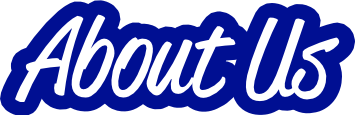
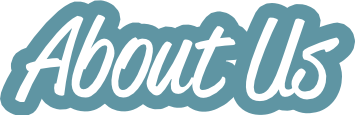
working on post
post not posting, need more work

diff --git a/app/assets/stylesheets/browse.css.scss b/app/assets/stylesheets/browse.css.scss
@@ -5,7 +5,7 @@
 .span4 {
 }
 #footer {
-	background-color: #E6E6DC;
+	background-color: #87B2AD;
 	padding-top: 20px;
 	padding-bottom: 20px;
 }
@@ -38,8 +38,8 @@
 #post {
 	background-color: yellow;
 }
-.left {
-	
+#right {
+	float: right;
 }
 .homeh1 {
 	padding-bottom: 2em;

diff --git a/app/assets/stylesheets/bootstrap_and_overrides.css.less b/app/assets/stylesheets/bootstrap_and_overrides.css.less
@@ -43,7 +43,7 @@
   font-weight: 200;
   line-height: 30px;
   color: inherit;
-  background: #81A594;
+  background: #B2DCE7;
   height: 150px;
   -webkit-border-radius: 6px;
      -moz-border-radius: 6px;

diff --git a/app/controllers/users_controller.rb b/app/controllers/users_controller.rb
@@ -1,12 +1,19 @@
 class UsersController < ApplicationController
+  before_action :signed_in_user, only: [:edit, :update]
+  before_action :correct_user,   only: [:edit, :update]
+
   def new
-      @user = User.new
+    @user = User.new
+  end
+
+  def index
+    @users = User.all
   end
 
   def create
-      @user = User.new(params[:user])
+      @user = User.new(user_params)
       if @user.save
-        session[:user_id] = @user.id
+        sign_in @user
         redirect_to @user
       else
         render :action => "new"
@@ -19,17 +26,15 @@ class UsersController < ApplicationController
 
   def update
     @user = User.find(params[:id])
-    # required for settings form to submit when password is left blank
-    if params[:user][:password].blank?
-      params[:user].delete("password")
-      params[:user].delete("password_confirmation")
-    end
-
-    if @user.update_attributes(params[:user])
+    if @user.update_attributes(user_params)
       redirect_to edit_user_path(@user), :flash => {:success => "You've Successful Updated Your Account!"}
     else
       render "edit"
     end
+  end
+
+  def feed
+    Micropost.where("user_id = ?", id)
   end
 
   def following
@@ -38,6 +43,10 @@ class UsersController < ApplicationController
     @following = @user.followed_users(User)
     @users = User.all
     render 'following'
+    if signed_in?
+      @micropost  = current_user.microposts.build
+      @feed_items = current_user.feed
+    end
   end
 
   def followers
@@ -46,6 +55,10 @@ class UsersController < ApplicationController
     @followers = @user.followers(User)
     @users = User.all
     render 'follower'
+    if signed_in?
+      @micropost  = current_user.microposts.build
+      @feed_items = current_user.feed
+    end
   end
 
   def destroy
@@ -59,5 +72,24 @@ class UsersController < ApplicationController
   def show
     @user = User.find(params[:id])
     @microposts = @user.microposts
+    if signed_in?
+      @micropost  = current_user.microposts.build
+      @feed_items = current_user.feed
+    end
   end
+
+  private
+
+    def user_params
+      params.require(:user).permit(:user_name, :email, :password, :password_confirmation)
+    end
+
+    def signed_in_user
+      redirect_to signin_url, notice: "Please sign in." unless signed_in?
+    end
+
+    def correct_user
+      @user = User.find(params[:id])
+      redirect_to(root_url) unless current_user?(@user)
+    end
 end

diff --git a/app/models/user.rb b/app/models/user.rb
@@ -1,10 +1,12 @@
 class User < ActiveRecord::Base
+    before_save { self.email = email.downcase }
+    before_create :create_remember_token
     
     has_many :microposts, dependent: :destroy
 
     has_many :relationships, foreign_key: "follower_id", dependent: :destroy
     has_many :followed_users, through: :relationships, source: :followed
-    has_many :reverse_relationships, foreign_key: "followed_id", class_name:  "Relationship", dependent:   :destroy
+    has_many :reverse_relationships, foreign_key: "followed_id", class_name: "Relationship", dependent: :destroy
     has_many :followers, through: :reverse_relationships, source: :follower
 
     include BCrypt
@@ -12,14 +14,14 @@ class User < ActiveRecord::Base
     attr_accessor :password
     before_save :encrypt_password
 
-    validates_confirmation_of :password , :message => "Passwords donot match."
+    VALID_EMAIL_REGEX = /\A[\w+\-.]+@[a-z\d\-.]+\.[a-z]+\z/i
+
+    validates_confirmation_of :password , :message => "Passwords do not match."
     validates_presence_of :password, :message => "Please Enter a Password"
-    validates_presence_of :email,:message=>"Email ID Field cannot be blank"
+    validates_presence_of :email,:message=>"Email ID Field cannot be blank", format: { with: VALID_EMAIL_REGEX }
     validates_uniqueness_of :email, :message => "Sorry this Email ID is already registered."
     validates_presence_of :user_name,:message=>"Username Field cannot be blank"
     validates_uniqueness_of :user_name, :message => "Sorry this Username is already registered."
-    validates_presence_of :first_name , :message => "First Name Field cannot be blank"
-    validates_presence_of :last_name, :message => "Last Name Field cannot be blank"
 
     def self.authenticate(email, password)
     user = find_by_email(email)
@@ -49,5 +51,24 @@ class User < ActiveRecord::Base
     end
     def unfollow!(other_user)
         relationships.find_by(followed_id: other_user.id).destroy!
+    end
+
+    def User.new_remember_token
+        SecureRandom.urlsafe_base64
+    end
+
+    def User.encrypt(token)
+        Digest::SHA1.hexdigest(token.to_s)
+    end
+
+    def feed
+        # This is preliminary. See "Following users" for the full implementation.
+        Micropost.where("user_id = ?", id)
+    end
+
+    private
+
+    def create_remember_token
+      self.remember_token = User.encrypt(User.new_remember_token)
     end
 end

diff --git a/app/helpers/sessions_helper.rb b/app/helpers/sessions_helper.rb
@@ -1,11 +1,48 @@
 module SessionsHelper
 
-	def current_user=(user)
-    	@current_user = user
-  	end
+    def sign_in(user)
+        remember_token = User.new_remember_token
+        cookies.permanent[:remember_token] = remember_token
+        user.update_attribute(:remember_token, User.encrypt(remember_token))
+        self.current_user = user
+    end
     
     def signed_in?
     	!current_user.nil?
   	end
+    
+    def sign_out
+        self.current_user = nil
+        cookies.delete(:remember_token)
+    end
+
+	def current_user=(user)
+    	@current_user = user
+  	end
+    
+    def current_user
+        remember_token = User.encrypt(cookies[:remember_token])
+        @current_user ||= User.find_by(remember_token: remember_token)
+    end
+    
+    def current_user?(user)
+        user == current_user
+    end
+    
+    def redirect_back_or(default)
+        redirect_to(session[:return_to] || default)
+        session.delete(:return_to)
+    end
+    
+    def store_location
+        session[:return_to] = request.url if request.get?
+    end
+    
+    def signed_in_user
+        unless signed_in?
+            store_location
+            redirect_to login_user_path, notice: "Please sign in."
+        end
+    end
     
 end

diff --git a/config/routes.rb b/config/routes.rb
@@ -1,7 +1,5 @@
 SocialLiving::Application.routes.draw do
   
-  get "relationships/create"
-  get "relationships/destroy"
   root :to => 'browse#home'
   get "browse/profile"
   get "browse/message"
@@ -11,10 +9,12 @@ SocialLiving::Application.routes.draw do
   get "users/destroy"
   get "users/update"
   get "users/show"
+  get "relationships/create"
+  get "relationships/destroy"
   
   #Sessions Users
   get "logout_user" => "sessions#destroy", :as => "logout_user"
-  post "login_user" => "sessions#new", :as => "login_user"
+  post "login_user" => "sessions#create", :as => "login_user"
   
   #Users
   get "signup" => "users#new", :as => "signup"
@@ -24,9 +24,11 @@ SocialLiving::Application.routes.draw do
           get :following, :followers
       end
   end
+  
   resources :sessions
   resources :relationships, only: [:create, :destroy]
-  resources :microposts
+  resources :microposts, :only => [:create, :destroy]
+  
   # The priority is based upon order of creation: first created -> highest priority.
   # See how all your routes lay out with "rake routes".
 

diff --git a/app/controllers/sessions_controller.rb b/app/controllers/sessions_controller.rb
@@ -1,18 +1,20 @@
 class SessionsController < ApplicationController
   def new
-      @user = User.authenticate(params[:email], params[:password])
-      if @user
-          session[:user_id] = @user.id
-          redirect_to root_url
-      else
-          session[:user_id] = nil
-          render :action => "new"
-          flash[:notice] = "Wrong email or password"
-      end
+  end
+
+  def create
+    user = User.authenticate(params[:email], params[:password])
+    if user && User.authenticate(params[:email], params[:password])
+      sign_in user
+      redirect_back_or user
+    else
+      flash[:error] = 'Invalid email/password combination'
+      render 'new'
+    end
   end
   
   def destroy
-      session[:user_id] = nil
-      redirect_to root_url
+    sign_out
+    redirect_to root_url
   end
 end

diff --git a/app/controllers/microposts_controller.rb b/app/controllers/microposts_controller.rb
@@ -1,0 +1,31 @@
+class MicropostsController < ApplicationController
+  before_action :signed_in_user, only: [:create, :destroy]
+  before_filter :correct_user,   only: :destroy
+
+  def create
+    @micropost = current_user.microposts.build(micropost_params)
+    
+    if @micropost.save
+      redirect_to root_path
+    else
+      @feed_items = []
+      render 'browse/home'
+    end
+  end
+
+  def destroy
+    @micropost.destroy
+    redirect_to root_path
+  end
+
+  private
+
+  def micropost_params
+    params.require(:micropost).permit(:content)
+  end
+
+  def correct_user
+    @micropost = current_user.microposts.find_by(id: params[:id])
+    redirect_to root_path if @micropost.nil?
+  end
+end

diff --git a/db/schema.rb b/db/schema.rb
@@ -11,7 +11,7 @@
 #
 # It's strongly recommended that you check this file into your version control system.
 
-ActiveRecord::Schema.define(version: 20131114170512) do
+ActiveRecord::Schema.define(version: 20131115022655) do
 
   create_table "microposts", force: true do |t|
     t.string   "content"
@@ -43,6 +43,9 @@ ActiveRecord::Schema.define(version: 20131114170512) do
     t.datetime "updated_at"
     t.string   "user_name"
     t.string   "user_bio"
+    t.string   "remember_token"
   end
+
+  add_index "users", ["remember_token"], name: "index_users_on_remember_token"
 
 end

diff --git a/app/controllers/browse_controller.rb b/app/controllers/browse_controller.rb
@@ -1,6 +1,9 @@
 class BrowseController < ApplicationController
   def home
-  	@micropost = user.microposts.build
+    if signed_in?
+      @micropost  = current_user.microposts.build
+      @feed_items = current_user.feed
+    end
   end
 
   def profile

diff --git a/app/controllers/application_controller.rb b/app/controllers/application_controller.rb
@@ -2,4 +2,5 @@ class ApplicationController < ActionController::Base
   # Prevent CSRF attacks by raising an exception.
   # For APIs, you may want to use :null_session instead.
   protect_from_forgery with: :exception
+  include SessionsHelper
 end

diff --git a/app/models/micropost.rb b/app/models/micropost.rb
@@ -1,5 +1,5 @@
 class Micropost < ActiveRecord::Base
-  belongs_to :user
+  belongs_to :users
   default_scope order('created_at DESC') 
   validates :content, presence: true, length: { maximum: 140 }
   validates :user_id, presence: true
